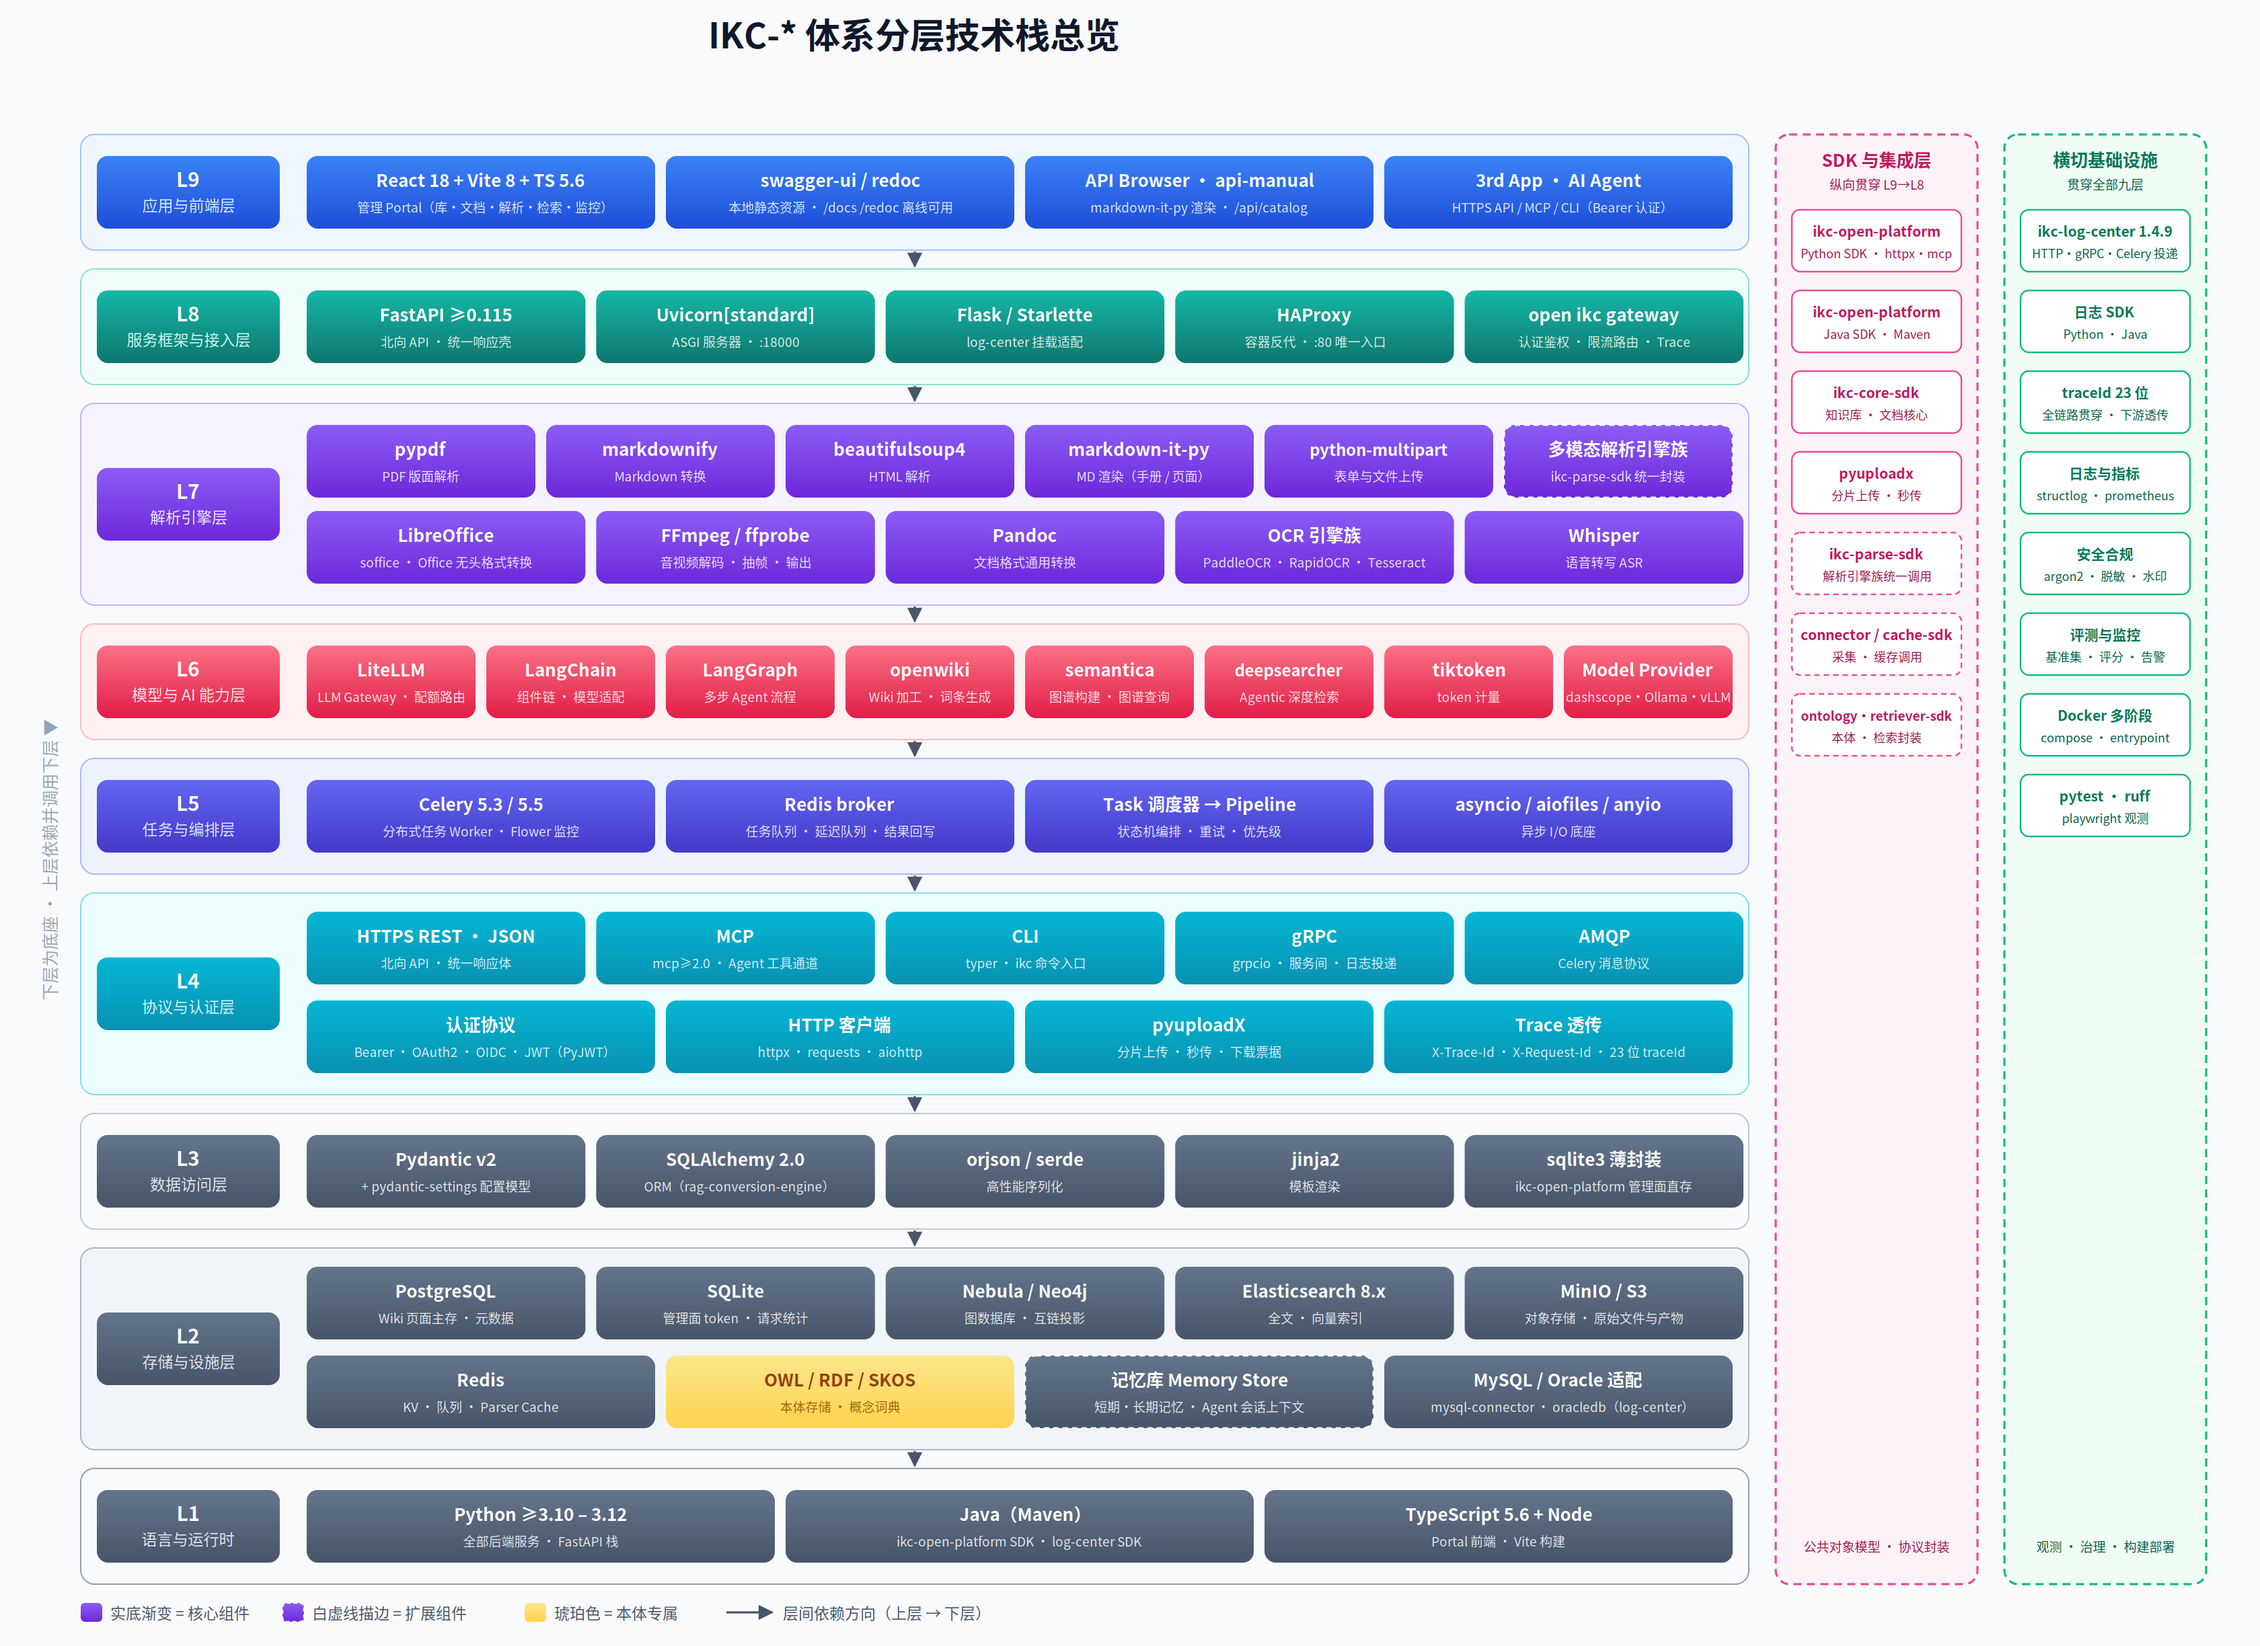
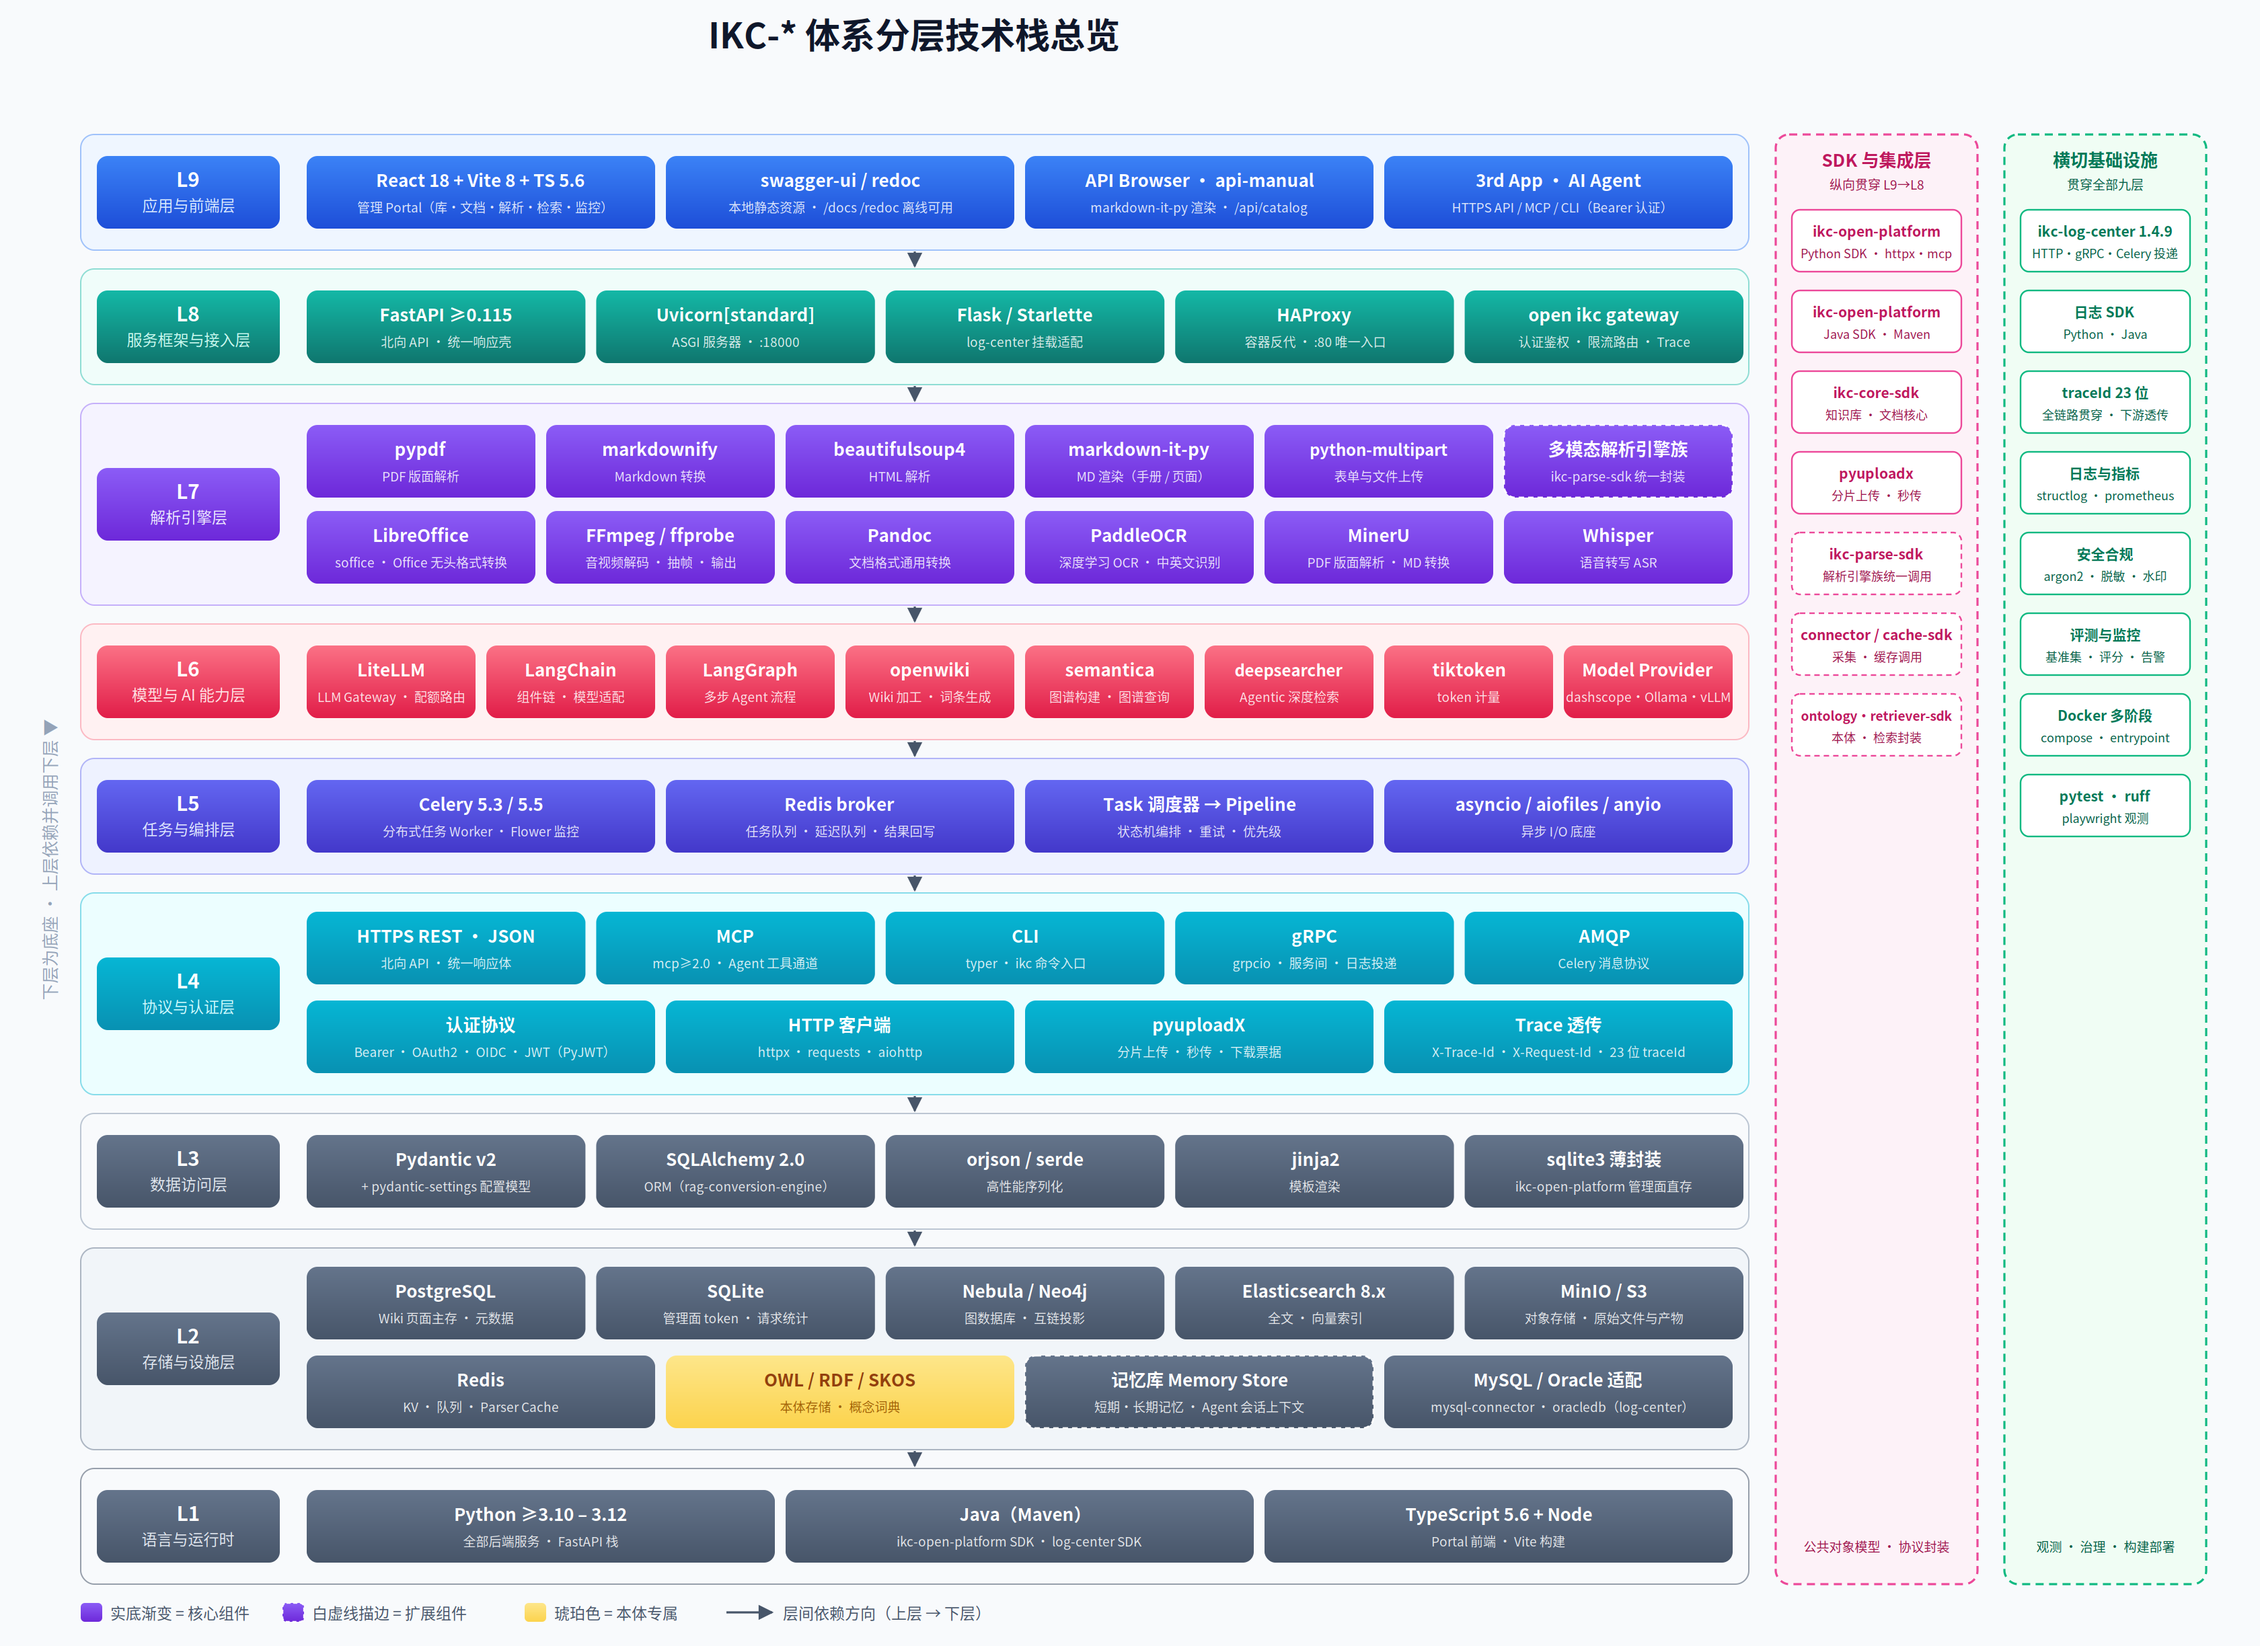
docs: 分层技术栈图 L7 去除 OCR 引擎族，拆为 PaddleOCR 与 MinerU 独立组件

Changed region(s): [[0.4375, 0.3105, 0.7188, 0.3725], [0.1562, 0.3105, 0.4062, 0.3725], [0.75, 0.3105, 0.7812, 0.3415]]

diff --git a/docs/worklog.md b/docs/worklog.md
@@ -1398,3 +1398,7 @@
 ### 任务：分层技术栈图项目名改为 ikc-open-platform（2026-10-16 续）
 
 - 四处替换：L2 sqlite3 副行、L1 Java 副行、SDK 条两枚 mini chip 标题（open-ikc Python/Java SDK → ikc-open-platform，语言移入副行）；因 mini chip 宽 126，副行精简为「Python SDK · httpx·mcp」「Java SDK · Maven」；「open ikc gateway」为网关组件名保留不变；grep 确认 open-ikc 零残留，局部放大渲染无溢出；仅配图改动，跳过 Claude 只读审查。
+
+### 任务：分层技术栈图 L7 OCR 簇拆为 PaddleOCR + MinerU（2026-10-16 续）
+
+- L7 下行移除「OCR 引擎族（PaddleOCR·RapidOCR·Tesseract）」聚合 chip，新增独立 PaddleOCR（深度学习 OCR · 中英文识别）与 MinerU（PDF 版面解析 · MD 转换），由 5 列回到 6 列布局（w=170，x=228/406/584/762/940/1118）；grep 确认 OCR 引擎族/RapidOCR/Tesseract 零残留，局部放大渲染无溢出；仅配图改动，跳过 Claude 只读审查。
